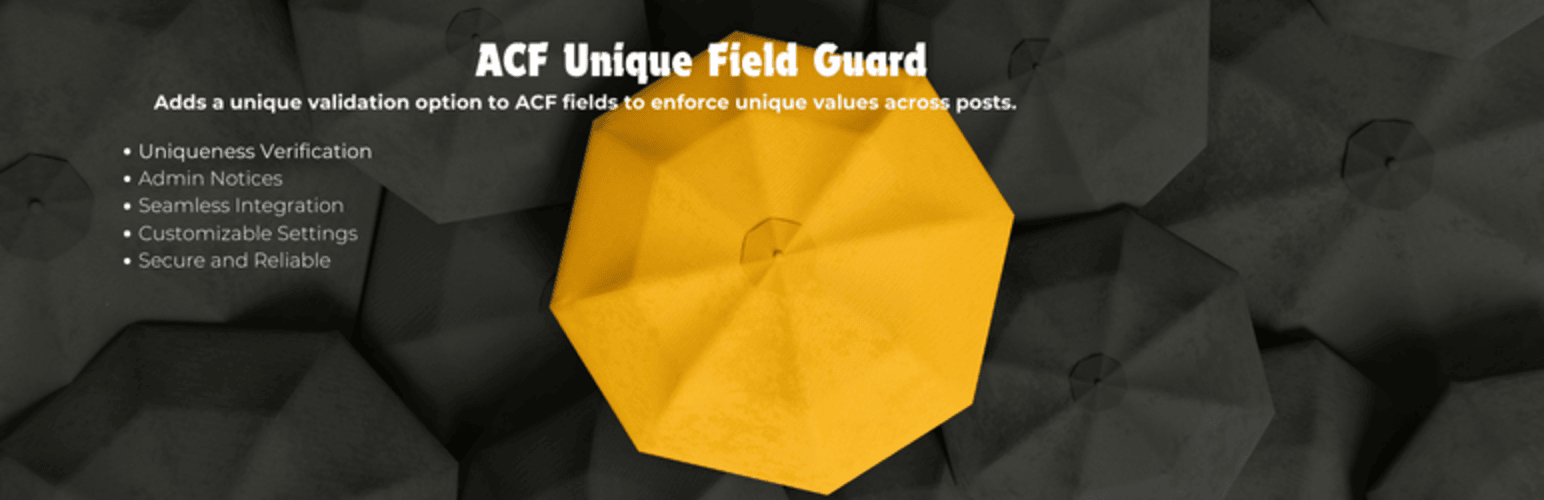
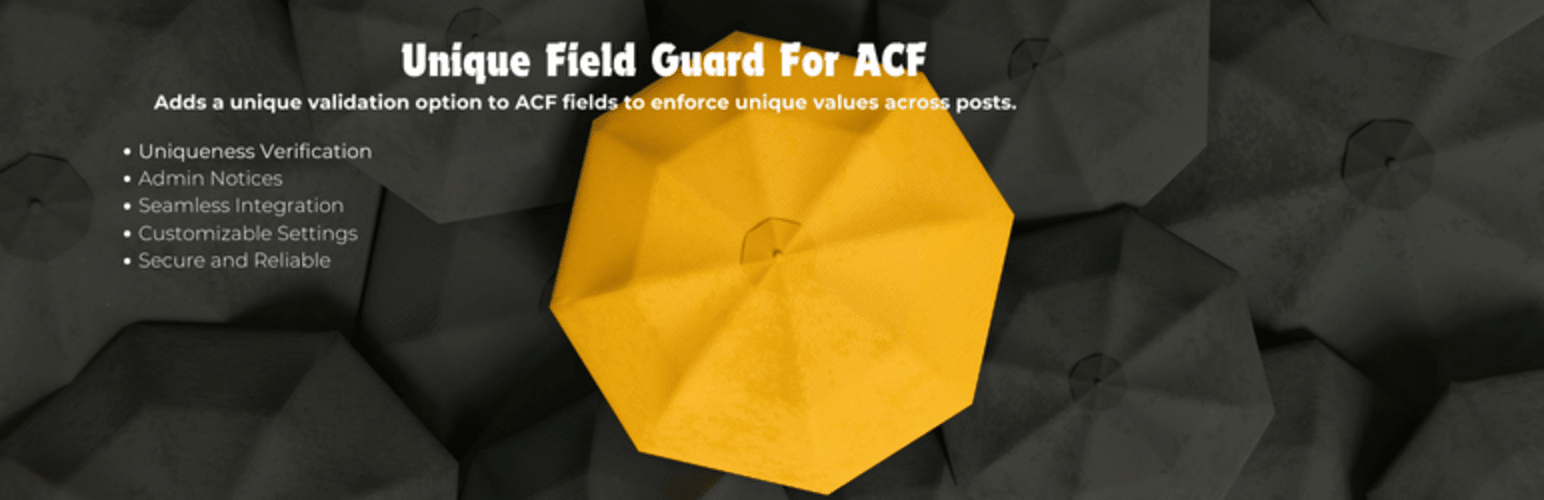
review changes done

Changed region(s): [[0.2487, 0.06, 0.6218, 0.21]]

diff --git a/Gruntfile.js b/Gruntfile.js
@@ -9,7 +9,7 @@ module.exports = function( grunt ) {
 
 		addtextdomain: {
 			options: {
-				textdomain: 'acf-unique-field-guard',
+				textdomain: 'unique-field-guard-for-acf',
 			},
 			update_all_domains: {
 				options: {
@@ -32,8 +32,8 @@ module.exports = function( grunt ) {
 				options: {
 					domainPath: '/languages',
 					exclude: [ '\.git/*', 'bin/*', 'node_modules/*', 'tests/*' ],
-					mainFile: 'acf-unique-field-guard.php',
-					potFilename: 'acf-unique-field-guard.pot',
+					mainFile: 'unique-field-guard-for-acf.php',
+					potFilename: 'unique-field-guard-for-acf.pot',
 					potHeaders: {
 						poedit: true,
 						'x-poedit-keywordslist': true

diff --git a/includes/class-unique-field-guard-acf.php b/includes/class-unique-field-guard-acf.php
@@ -3,21 +3,21 @@
 /**
  * This class represents a custom functionality in the ACF unique field guard.
  *
- * @package ACF_Unique_Field_Guard
+ * @package Unique_Field_Guard_ACF
  * @author  Abiodun Paul Ogunnaike <primastech101@gmail.com>
  *
  * Requires PHP:      7.4
  * Requires at least PHP: 6.0
  */
 
-if (!class_exists('ACF_Unique_Field_Guard')) {
-    /**
-     * This is the ACF_Unique_Field_Guard class.
-     *
-     * @package ACF_Unique_Field_Guard
-     * @author  Abiodun Paul Ogunnaike <primastech101@gmail.com>
-     */
-    class ACF_Unique_Field_Guard
+if (!class_exists('Unique_Field_Guard_ACF')) {
+	/**
+	 * This is the Unique_Field_Guard_For_ACF class.
+	 *
+	 * @package Unique_Field_Guard_For_ACF
+	 * @author  Abiodun Paul Ogunnaike <primastech101@gmail.com>
+	 */
+    class Unique_Field_Guard_For_ACF
     {
         /**
          * Constructor
@@ -82,7 +82,7 @@ if (!class_exists('ACF_Unique_Field_Guard')) {
         public function acf_missing_notice()
         {
 			$notice = '<div class="notice notice-error"><p>';
-			$notice .=  __('ACF Unique Field Guard requires Advanced Custom Fields (ACF) to be installed and active.',  'acf-unique-field-guard');
+			$notice .=  __('Unique Field Guard For ACF requires Advanced Custom Fields (ACF) to be installed and active.',  'unique-field-guard-for-acf');
             $notice .='</p></div>';
 
 			echo esc_html($notice);
@@ -169,10 +169,10 @@ if (!class_exists('ACF_Unique_Field_Guard')) {
 
             // If a post with the same value exists, return an error
 			// phpcs:ignore WordPress.Security.NonceVerification.Missing
-			
+
             if ($existing_posts->have_posts()) {
 				 /* Translators: %1$s: field value, %2$s: field label */
-                $valid = sprintf(__('The value "%1$s" for the field "%2$s" already exists.', 'acf-unique-field-guard'),
+                $valid = sprintf(__('The value "%1$s" for the field "%2$s" already exists.', 'unique-field-guard-for-acf'),
 				esc_html($value),
 				esc_html($field['label'])
 			);
@@ -193,8 +193,8 @@ if (!class_exists('ACF_Unique_Field_Guard')) {
         public function add_get_pro_now_link($links, $file)
         {
 
-            if ($file == 'acf-unique-field-guard/acf-unique-field-guard.php') {
-                $pro_link = '<a href="https:primastech.com.ng/plugins/acf-unique-field-guard" target="_blank" style="color: red; font-weight: bold;" >Get Pro Now</a>';
+            if ($file == 'unique-field-guard-for-acf/unique-field-guard-for-acf.php') {
+                $pro_link = '<a href="https:primastech.com.ng/plugins/unique-field-guard-for-acf" target="_blank" style="color: red; font-weight: bold;" >Get Pro Now</a>';
                 array_unshift($links, $pro_link);
             }
             return $links;

diff --git a/unique-field-guard-for-acf.php b/unique-field-guard-for-acf.php
@@ -1,21 +1,21 @@
 <?php
 
 /**
- *  ACF Unique Field Guard
+ *  Unique Field Guard For ACF
  *
- * @package 		ACF_Unique_Field_Guard
+ * @package 		Unique_Field_Guard_ACF
  * @author  		Abiodun Paul Ogunnaike <ayo_ogunnaike@yahoo.com>
  *
- * Plugin Name:     ACF Unique Field Guard
- * Plugin URI:      https://primastech.com.ng/plugins/acf-unique-field-guard
+ * Plugin Name:     Unique Field Guard For ACF
+ * Plugin URI:      https://primastech.com.ng/plugins/unique-field-guard-for-acf
  * Description:     Adds a unique validation option to ACF fields to enforce unique values across posts.
  * Author:          Abiodun Paul Ogunnaike
  * Author URI:      https://primastech.com.ng/
- * Text Domain:     acf-unique-field-guard
+ * Text Domain:     unique-field-guard-for-acf
  * Donate:          https://www.buymeacoffee.com/abbeymaniak
  * Domain Path:     /languages
  * Version:         1.0.0
- * prefix:          ACF_Unique_Field_Guard
+ * prefix:          Unique_Field_Guard_ACF
  * License:         GPL v2 or later
  * License URI:     https://www.gnu.org/licenses/gpl-2.0.html
  * Requires PHP:      7.4
@@ -26,8 +26,8 @@
 defined('ABSPATH') || die('Unauthorized Access');
 
 // Include the main plugin class.
-require_once plugin_dir_path(__FILE__) . 'includes/class-acf-unique-field-guard.php';
+require_once plugin_dir_path(__FILE__) . 'includes/class-unique-field-guard-for-acf.php';
 
 //instantiate the main class
 
-$Acf_Unique_Field_Guard = new ACF_Unique_Field_Guard();
+$Unique_Field_Guard_For_ACF = new Unique_Field_Guard_For_ACF();

diff --git a/README.md b/README.md
@@ -1,4 +1,4 @@
-=== ACF Unique Field Guard ===
+=== Unique Field Guard For ACF ===
 Contributors: abbeymaniak
 Donate link: https://www.buymeacoffee.com/abbeymaniak
 Tags: acf, unique, unique field, guard
@@ -9,11 +9,11 @@ Stable tag: 1.0.0
 License: GPL v2 or later
 License URI: https://www.gnu.org/licenses/gpl-2.0.html
 
-# ACF Unique Field Guard
+# Unique Field Guard For ACF
 
 ## Description
 
-**ACF Unique Field Guard** is a WordPress plugin designed to ensure the uniqueness of Advanced Custom Fields (ACF) values. By automatically checking for duplicates during post saves, this plugin helps maintain data integrity and prevents the reuse of the same values across your site for fields that needs to be unique.
+**Unique Field Guard For ACF** is a WordPress plugin designed to ensure the uniqueness of Advanced Custom Fields (ACF) values. By automatically checking for duplicates during post saves, this plugin helps maintain data integrity and prevents the reuse of the same values across your site for fields that needs to be unique.
 
 ### Key Features
 
@@ -25,7 +25,7 @@ License URI: https://www.gnu.org/licenses/gpl-2.0.html
 
 ### Installation
 
-1. Upload the `acf-unique-field-guard` folder to the `/wp-content/plugins/` directory.
+1. Upload the `unique-field-guard-for-acf` folder to the `/wp-content/plugins/` directory.
 2. Activate the plugin through the 'Plugins' menu in WordPress.
 3. Go to the ACF custom field under validation tab and activate the checkbox.
 
@@ -83,13 +83,13 @@ For support or feature requests, please contact us via [Support Page URL](https:
 -  Offer dedicated support channels for premium users.
 -  Provide detailed documentation, including video tutorials and advanced use cases.
 
-Join the waiting [Join the waiting List](https://primastech.com.ng/plugins/acf-unique-field-guard)
+Join the waiting [Join the waiting List](https://primastech.com.ng/plugins/unique-field-guard-for-acf)
 to be notified when the PRO version is released.
 
-Upgrade to PRO [Upgrade to PRO](https://primastech.com.ng/plugins/acf-unique-field-guard)
+Upgrade to PRO [Upgrade to PRO](https://primastech.com.ng/plugins/unique-field-guard-for-acf)
 
 
 
 ---
 
-Thank you for using **ACF Unique Field Guard**. Your feedback and suggestions are welcome!
+Thank you for using **Unique Field Guard For ACF**. Your feedback and suggestions are welcome!
